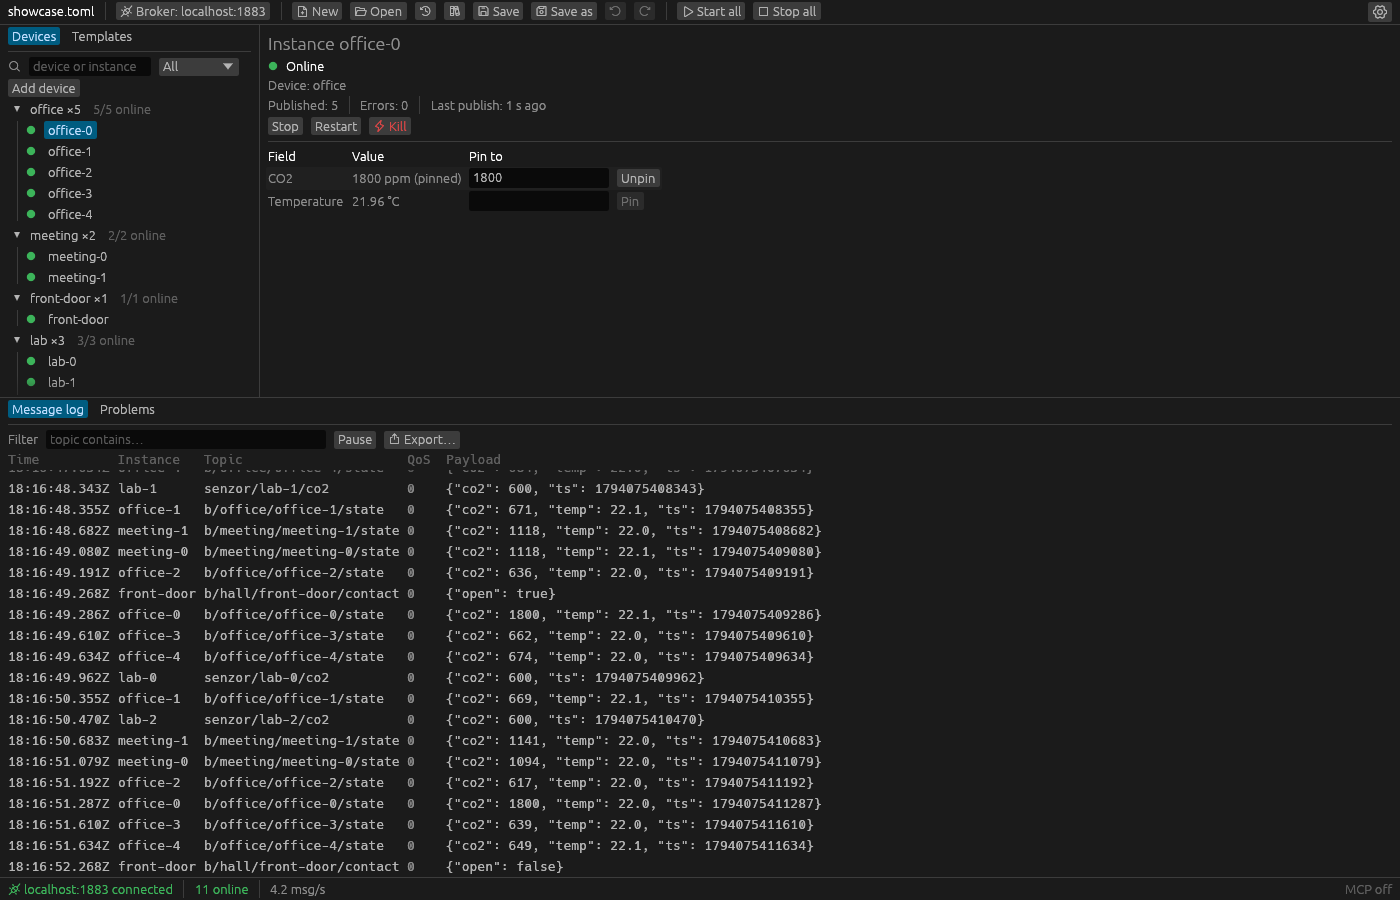
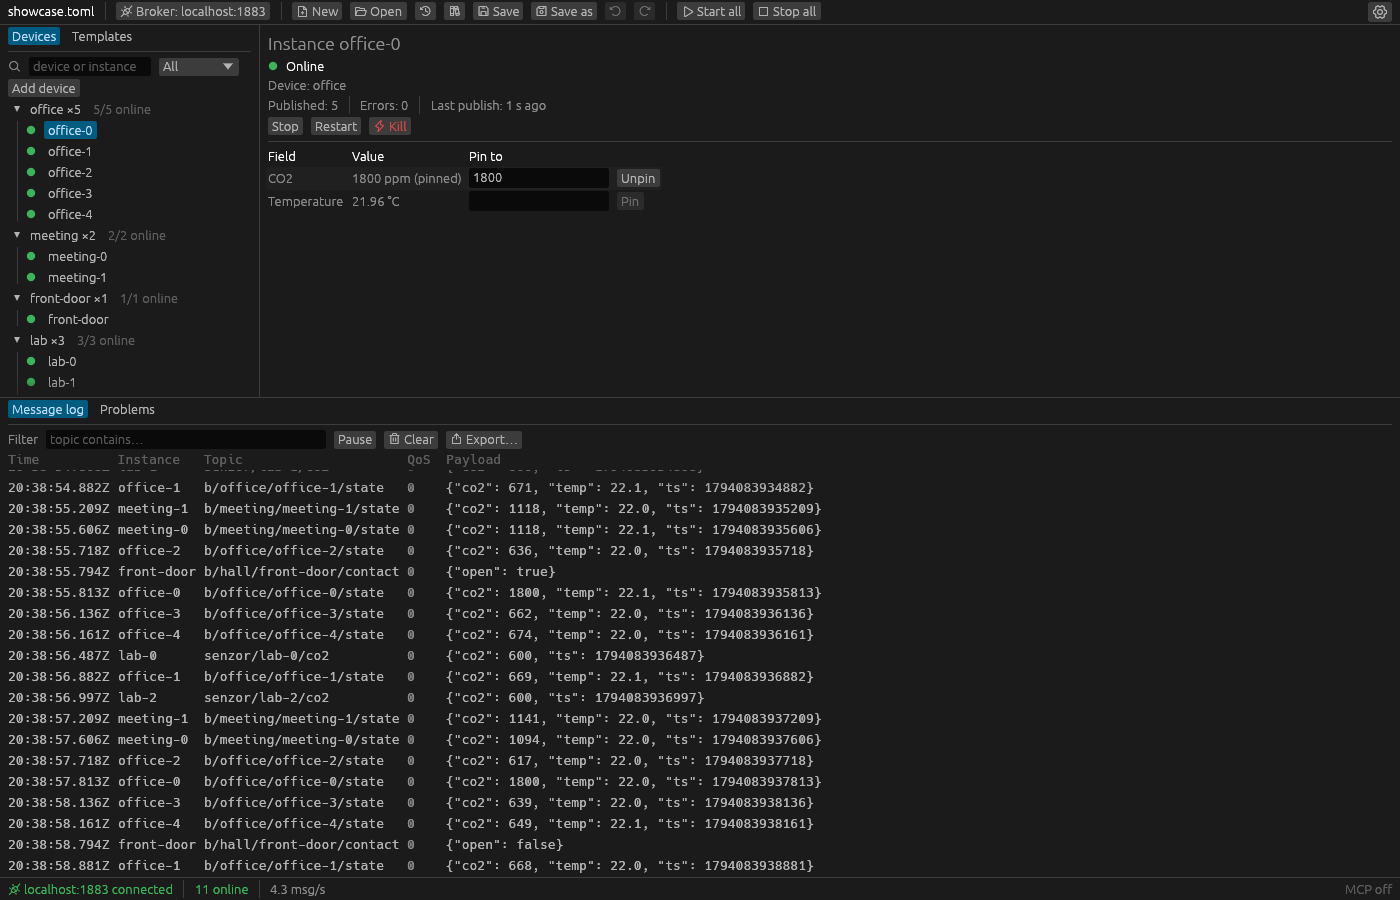
feat(gui): clear the message log
A Clear button empties the message log while the devices keep publishing,
so a test can start from an empty list.

- Log: Clear between Pause and Export… hides every message published so
  far (LogFilter::clear_through, by sequence number, which only grows);
  later messages show as usual, a paused log stays paused, and Export…
  saves only what is shown. The engine keeps its log, so get_messages is
  unchanged. Also in the command palette (Action::ClearLog).
- Tests: the filter's clear mark; Clear empties the log and closes the
  shown message.
- Docs: window (message log); CHANGELOG; screenshots.

Changed region(s): [[0.0, 0.5289, 0.5836, 0.9644], [0.2764, 0.4667, 0.3686, 0.4978]]

diff --git a/crates/senzor/src/log_view.rs b/crates/senzor/src/log_view.rs
@@ -2,17 +2,33 @@
 
 use senzor_core::engine::LogEntry;
 
-/// Which messages the log shows: those whose topic contains `topic` (case-sensitive) and, when
-/// set, those of one instance.
+/// Which messages the log shows: those published after the last clear whose topic contains
+/// `topic` (case-sensitive) and, when set, those of one instance.
 #[derive(Debug, Clone, Default, PartialEq, Eq)]
 pub struct LogFilter {
     pub topic: String,
     pub instance: Option<String>,
+    /// The `seq` of the newest message when the log was cleared (0 before any clear).
+    cleared_through: u64,
 }
 
 impl LogFilter {
+    /// Hides every message up to `seq`; sequence numbers only grow, so later ones still show.
+    pub fn clear_through(&mut self, seq: u64) {
+        self.cleared_through = self.cleared_through.max(seq);
+    }
+
+    /// No topic or instance filter, but the same clear: messages cleared once stay cleared.
+    pub fn cleared(&self) -> Self {
+        Self {
+            cleared_through: self.cleared_through,
+            ..Self::default()
+        }
+    }
+
     pub fn matches(&self, entry: &LogEntry) -> bool {
-        entry.topic.contains(&self.topic)
+        entry.seq > self.cleared_through
+            && entry.topic.contains(&self.topic)
             && self
                 .instance
                 .as_ref()
@@ -88,14 +104,28 @@ mod tests {
         let by_topic = LogFilter {
             topic: "office".into(),
             instance: None,
+            ..LogFilter::default()
         };
         assert!(by_topic.matches(&office) && !by_topic.matches(&lab));
         let by_instance = LogFilter {
             topic: String::new(),
             instance: Some("lab-0".into()),
+            ..LogFilter::default()
         };
         assert!(by_instance.matches(&lab) && !by_instance.matches(&office));
         assert!(LogFilter::default().matches(&office), "no filter shows all");
+    }
+
+    #[test]
+    fn a_cleared_log_shows_only_messages_after_the_clear() {
+        let mut filter = LogFilter::default();
+        filter.clear_through(5);
+        let at = |seq| LogEntry {
+            seq,
+            ..entry("office-0", "b/office/state", "1")
+        };
+        assert!(!filter.matches(&at(5)), "cleared");
+        assert!(filter.matches(&at(6)), "published after the clear");
     }
 
     #[test]

diff --git a/crates/senzor/src/ui/bottom.rs b/crates/senzor/src/ui/bottom.rs
@@ -68,6 +68,15 @@ fn log(ui: &mut egui::Ui, state: &EngineState, ui_state: &mut UiState, actions: 
                 Some(state.log.clone())
             };
         }
+        let clear = ui
+            .button(format!("{} Clear", icons::TRASH))
+            .on_hover_text("Empty the log; new messages still show");
+        clear.widget_info(|| {
+            egui::WidgetInfo::labeled(egui::WidgetType::Button, true, "Clear the log")
+        });
+        if clear.clicked() {
+            ui_state.clear_log(&state.log);
+        }
         let export = ui
             .button(format!("{} Export…", icons::EXPORT))
             .on_hover_text("Save the messages shown here as a CSV file");
@@ -371,6 +380,22 @@ mod tests {
                 .iter()
                 .any(|a| matches!(a, Action::ExportLog))
         );
+    }
+
+    #[test]
+    fn clear_empties_the_log_and_closes_the_shown_message() {
+        let mut h = log_harness(two_instances());
+        h.get_by_label_contains(r#"{"co2":605}"#).click();
+        h.run();
+        h.get_by_label("Clear the log").click();
+        h.run();
+        assert!(h.query_by_label_contains("b/office/state").is_none());
+        assert!(h.query_by_label_contains("b/lab/state").is_none());
+        assert!(
+            h.query_by_label("Copy payload").is_none(),
+            "no message is shown"
+        );
+        assert_eq!(h.state().ui.log_selected, None);
     }
 
     #[test]

diff --git a/crates/senzor/src/ui/mod.rs b/crates/senzor/src/ui/mod.rs
@@ -108,6 +108,8 @@ pub enum Action {
     OpenPalette,
     /// Save the messages the log shows as a CSV file.
     ExportLog,
+    /// Empty the message log, as its Clear button does.
+    ClearLog,
     /// Open a project from the Recent menu.
     OpenRecent(PathBuf),
     /// Open this file, dropped on the window.
@@ -305,8 +307,19 @@ impl UiState {
     /// Forgets everything tied to the previous document.
     pub fn reset(&mut self) {
         let left_tab = self.left_tab;
+        let log_filter = self.log_filter.cleared();
         *self = UiState::default();
         self.left_tab = left_tab;
+        self.log_filter = log_filter;
+    }
+
+    /// Empties the message log: hides every message in `log` and the one shown in full. The
+    /// engine keeps its log, so the MCP tools still read every message.
+    pub fn clear_log(&mut self, log: &VecDeque<LogEntry>) {
+        if let Some(newest) = log.back() {
+            self.log_filter.clear_through(newest.seq);
+        }
+        self.log_selected = None;
     }
 }
 

diff --git a/crates/senzor/src/ui/palette.rs b/crates/senzor/src/ui/palette.rs
@@ -63,6 +63,7 @@ const ACTIONS: &[NamedAction] = &[
     ("Clear retained messages…", || Action::AskClearRetained),
     ("Find in the message log", || Action::FindInLog),
     ("Export the message log…", || Action::ExportLog),
+    ("Clear the message log", || Action::ClearLog),
     ("Settings", || Action::OpenSettings),
     ("Copy as a GitHub Actions step", || {
         Action::CopySnippet(crate::snippets::Snippet::GitHubActions)

diff --git a/crates/senzor/src/app.rs b/crates/senzor/src/app.rs
@@ -697,6 +697,7 @@ impl SenzorApp {
                 self.select(None);
             }
             Action::ExportLog => self.export_log(),
+            Action::ClearLog => self.ui.clear_log(&self.state.log),
             Action::OpenPalette => self.ui.palette = Some(Default::default()),
             Action::CopySnippet(snippet) => match self.doc.file_name() {
                 Some(name) => {

diff --git a/CHANGELOG.md b/CHANGELOG.md
@@ -44,7 +44,7 @@ The first release.
 #### Window
 
 - A device tree with search, a status filter and "4/5 online" counts, an editor for devices, templates and the broker, and a live preview of every template.
-- A message log in columns with QoS and retained, filtered by topic or by clicking an instance, with each message's details and indented payload, and export to CSV.
+- A message log in columns with QoS and retained, filtered by topic or by clicking an instance, with each message's details and indented payload, export to CSV and a Clear button.
 - A Problems tab, and a status bar with the broker state, instance counts and messages per second.
 - A `?` next to every setting that explains it and opens its documentation.
 - Select several instances with Ctrl+click or Shift+click to start, stop, restart, kill or pin a field on all of them.
